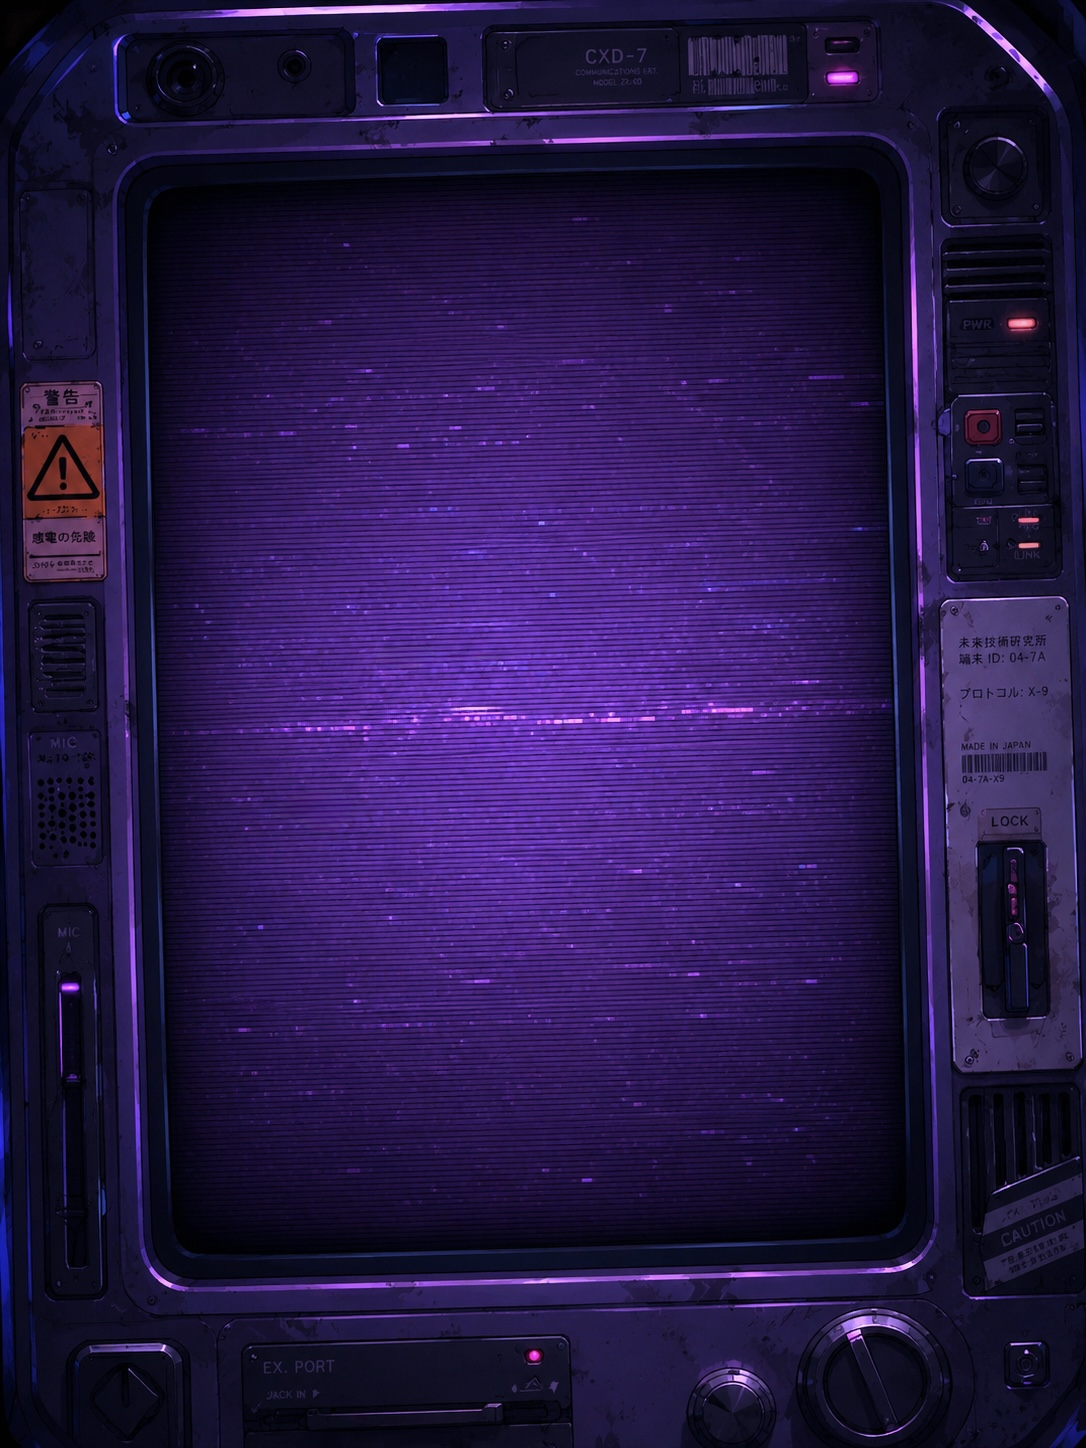
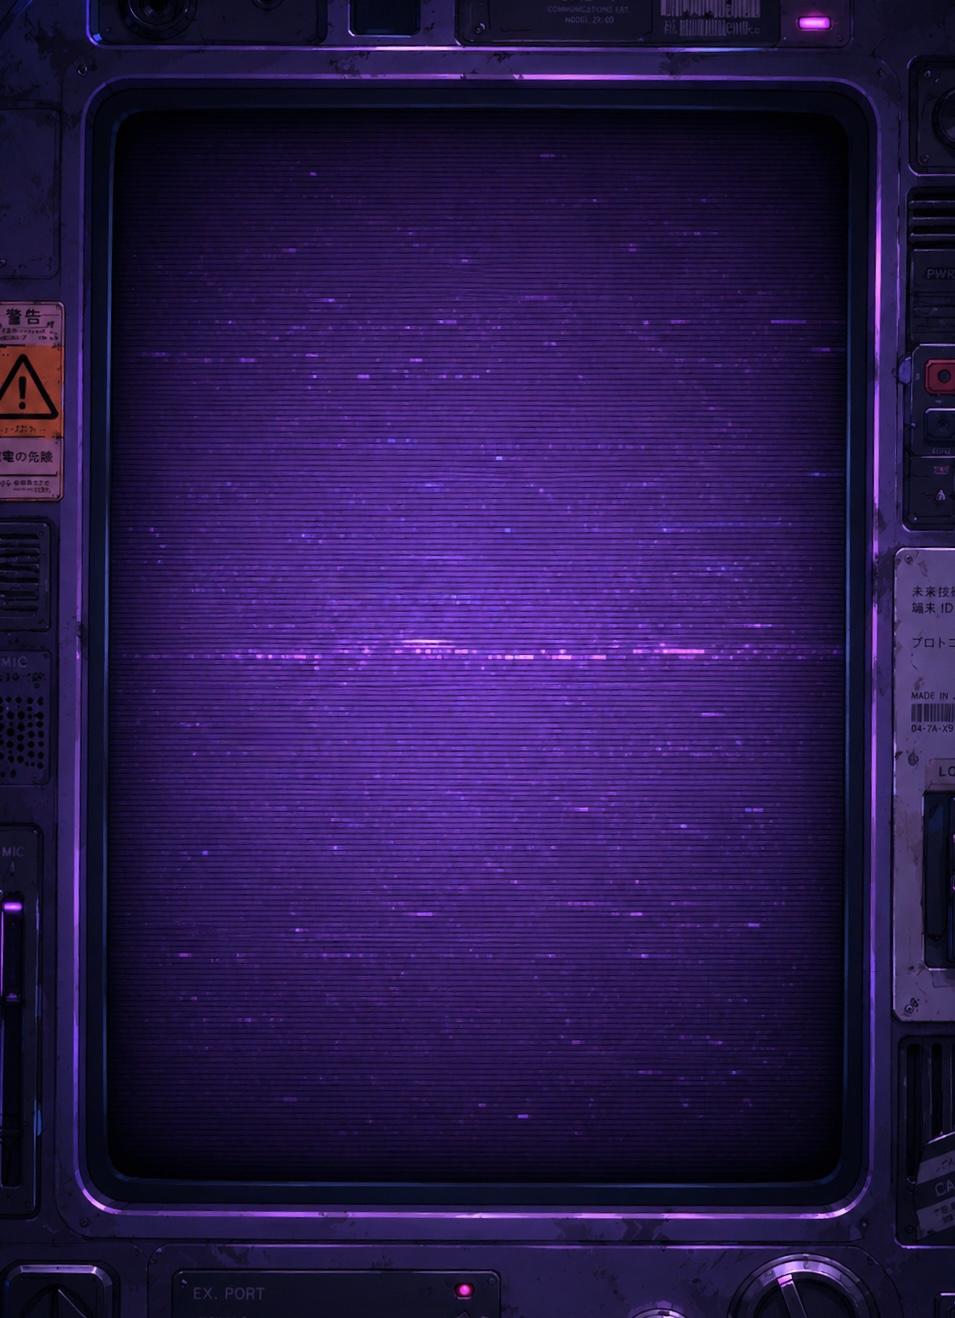
Add animated grain effect and update background image
Update background image and add animated CRT grain noise to the screen safe area using CSS pseudo-elements, adjusting z-index for proper layering with scanlines and content.

Replit-Commit-Author: Agent
Replit-Commit-Session-Id: 3c163881-69bf-4327-a144-666fc16f3890
Replit-Commit-Checkpoint-Type: full_checkpoint
Replit-Commit-Event-Id: 22c558fd-fc51-41f6-b4ca-83b96f37e745
Replit-Commit-Screenshot-Url: https://storage.googleapis.com/screenshot-production-us-central1/84807785-231d-438c-bf07-d814810bda21/3c163881-69bf-4327-a144-666fc16f3890/ebiQeP1
Replit-Helium-Checkpoint-Created: true

diff --git a/artifacts/flash/src/index.css b/artifacts/flash/src/index.css
@@ -2420,33 +2420,41 @@ html, body, #root {
   overflow: hidden;
   z-index: 1;
 }
-/* Scanline overlay */
+/* Animated CRT grain noise — inside screen-safe-area only */
 .screen-safe-area::before {
   content: '';
   position: absolute;
   inset: 0;
-  background: repeating-linear-gradient(
-    0deg,
-    transparent 0px, transparent 3px,
-    rgba(0,0,0,0.13) 3px, rgba(0,0,0,0.13) 4px
-  );
   pointer-events: none;
-  z-index: 50;
+  z-index: 1;
+  opacity: 0.07;
+  background-image: radial-gradient(circle, rgba(255,255,255,0.18) 1px, transparent 1px);
+  background-size: 4px 4px;
+  animation: crtNoise 0.35s steps(2) infinite;
 }
-/* Vignette — darker corners */
+@keyframes crtNoise {
+  0%   { transform: translate(0, 0); }
+  25%  { transform: translate(-1px, 1px); }
+  50%  { transform: translate(1px, -1px); }
+  75%  { transform: translate(1px, 1px); }
+  100% { transform: translate(0, 0); }
+}
+/* Scanlines + vignette combined — stays above noise, below UI */
 .screen-safe-area::after {
   content: '';
   position: absolute;
   inset: 0;
-  background: radial-gradient(ellipse at 50% 50%, transparent 45%, rgba(0,0,0,0.5) 100%);
   pointer-events: none;
-  z-index: 49;
+  z-index: 2;
+  background:
+    repeating-linear-gradient(0deg, transparent 0px, transparent 3px, rgba(0,0,0,0.12) 3px, rgba(0,0,0,0.12) 4px),
+    radial-gradient(ellipse at 50% 50%, transparent 45%, rgba(0,0,0,0.45) 100%);
 }
 
 /* Content wrapper inside the screen */
 .bomb-screen-content {
   position: relative;
-  z-index: 2;
+  z-index: 3;
   width: 100%;
   height: 100%;
   display: flex;
